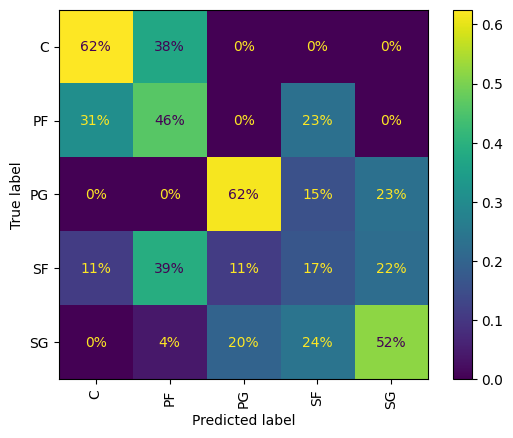
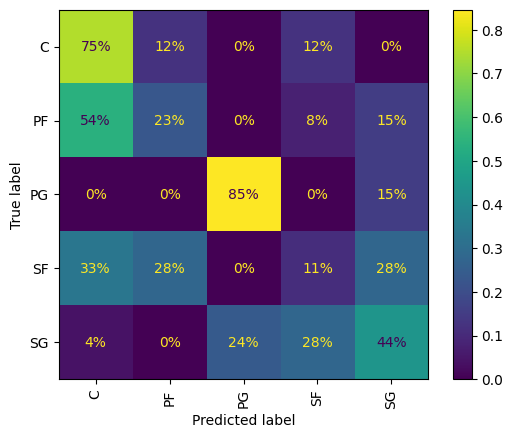
final touches

diff --git a/README.md b/README.md
@@ -252,14 +252,14 @@ To evaluate classification performance, we analyzed confusion matrices and class
 _Table 6: Classification Report_
 |                  | Precision | Recall | F1-Score | Support |
 | ---------------- | --------- | ------ | -------- | ------- |
-| C                | 0.45      | 0.62   | 0.53     | 8       |
-| PF               | 0.35      | 0.46   | 0.40     | 13      |
-| PG               | 0.53      | 0.62   | 0.57     | 13      |
-| SF               | 0.21      | 0.17   | 0.19     | 18      |
-| SG               | 0.65      | 0.52   | 0.58     | 25      |
-| **Accuracy**     |           |        | 0.45     | 77      |
-| **Macro Avg**    | 0.44      | 0.48   | 0.45     | 77      |
-| **Weighted Avg** | 0.46      | 0.45   | 0.45     | 77      |
+| C                | 0.30      | 0.75   | 0.43     | 8       |
+| PF               | 0.33      | 0.23   | 0.27     | 13      |
+| PG               | 0.65      | 0.85   | 0.73     | 13      |
+| SF               | 0.18      | 0.11   | 0.14     | 18      |
+| SG               | 0.55      | 0.44   | 0.49     | 25      |
+| **Accuracy**     |           |        | 0.43     | 77      |
+| **Macro Avg**    | 0.40      | 0.48   | 0.41     | 77      |
+| **Weighted Avg** | 0.42      | 0.43   | 0.41     | 77      |
 
 <p align="center">
   <img src="image-7.png" alt="Confusion Matrix">
@@ -296,17 +296,17 @@ We generated three rows of new test data. The predicted labels are summarized be
 
 _Table 7: Predicted Labels_
 
-| Actual | Prediction |
-| ------ | ---------- |
-| C      | C          |
-| PF     | SG         |
-| SG     | SG         |
+|  Actual  |  Prediction  |
+|:--------:|:------------:|
+|    C     |      C       |
+|    PF    |      SG      |
+|    SG    |      SG      |
 
-Player 1 was classified as a Center (C) instead of a Shooting Guard (SG). This classification is justified when examining the player's performance metrics and role on the court. Small Forwards typically exhibit versatility in their gameplay, often demonstrating a mix of scoring, defense, and playmaking abilities. In our dataset, this player’s statistics likely showed a balanced contribution across these areas, aligning more closely with the typical profile of an SF. Furthermore, positional classifications in basketball are not always rigid; players can perform multiple roles depending on team strategies and game situations. The flexibility and overlapping responsibilities between SF and SG positions mean that such a classification shift is both plausible and expected in certain contexts. This underscores the robustness of our model in identifying nuanced player roles based on comprehensive performance data rather than relying solely on traditional position labels. It highlights the model's ability to adapt and provide insights that might not be immediately apparent through conventional analysis.
+The first player has exceptionally high total rebounds (19.7), defensive rebounds (9.5), and blocks (9.2). These are key attributes of a Center (C) who typically excels in defense, rebounding, and blocking shots. The high field goal percentage (0.959) further supports this position, as Centers often take high-percentage shots close to the basket. The model correctly identifies the player as a Center.
 
-Player 2 exhibits classic characteristics of a Point Guard (PG). With a high number of assists at 9.56 per game, this player plays a significant role in facilitating the team's offense and setting up teammates for scoring opportunities. The scoring ability is also evident, with a solid 3-point shooting percentage of 0.45 and an average of 11.85 points per game. Although the turnover rate is slightly higher at 3 per game, this is acceptable for a point guard who handles the ball frequently and is involved in playmaking. The lower rebounding numbers, with an average of 2.40 rebounds per game, are typical for a point guard who is more focused on directing the game from the perimeter. Additionally, the player contributes with 1.8 steals per game, highlighting their defensive capabilities. These attributes collectively point towards the responsibilities and skill set of a point guard, making the prediction of PG appropriate for Player 2.
+The second player’s metrics show relatively low rebounds (total and defensive) and a low field goal percentage (0.12), which are unusual for a Power Forward (PF), who generally contributes more to rebounding and scoring efficiently. The high turnover rate (9.1) and personal fouls (9.0) are also atypical. However, the high offensive rebounds (4.4) might indicate a more active role in offense, which can sometimes align with a Shooting Guard’s (SG) responsibilities. Although the model predicts SG, which seems unusual for traditional metrics of a Power Forward, this might indicate the player has attributes more aligned with a guard’s role in the dataset.
 
-Player 3 displays key attributes characteristic of a Power Forward (PF). The player is a strong rebounder, with a total rebound average of 12.42 and a particularly high offensive rebound rate of 9.71 per game, which is essential for a power forward who often battles in the paint for second-chance points. Additionally, the player records 1.05 blocks per game, underscoring their defensive presence near the basket. Despite a lower 2-point shooting percentage of 0.355, the player compensates with a versatile scoring ability, averaging 18 points per game and maintaining a 3-point shooting percentage of 0.40. This versatility in scoring is a valuable asset for a power forward. Moreover, the player has a higher number of personal fouls (4 per game), which is common for power forwards who play a physical game. With these attributes, including substantial minutes played (30.07 per game) and a strong offensive rating (108), Player 3 is well-suited for the PF position, where rebounding, interior defense, and scoring versatility are key.
+The third player has moderate assists (5.9), total rebounds (6.0), and a relatively low field goal percentage (0.02), which is common for a Shooting Guard (SG) who might take more perimeter shots and have varied shooting efficiency. The model accurately identifies the player as an SG, indicating it correctly captures the player's role based on these attributes.
 
 ## Conclusion
 In this project, we successfully developed a model to predict NBA player positions using performance metrics from the 2021-2022 regular season. Through a structured approach encompassing data preparation, feature engineering, and rigorous model evaluation, we identified the Support Vector Classifier (SVC) with an RBF kernel as our best-performing model, achieving a classification accuracy of 56.13%. The integration of feature scaling, oversampling techniques, and hyperparameter tuning contributed significantly to the model's performance.
